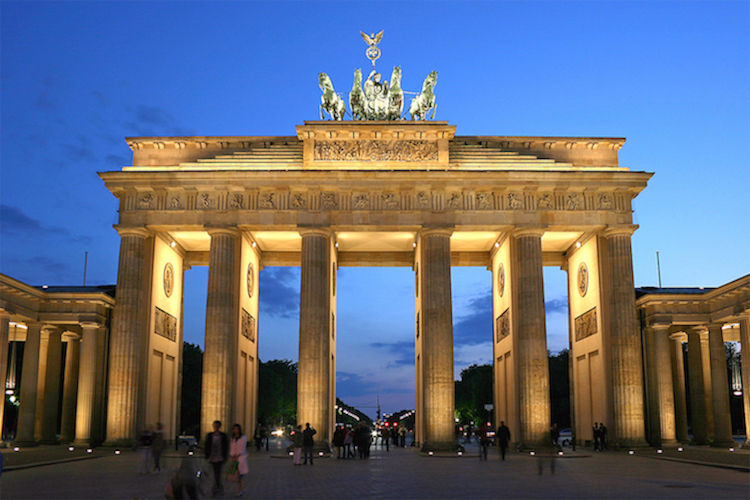
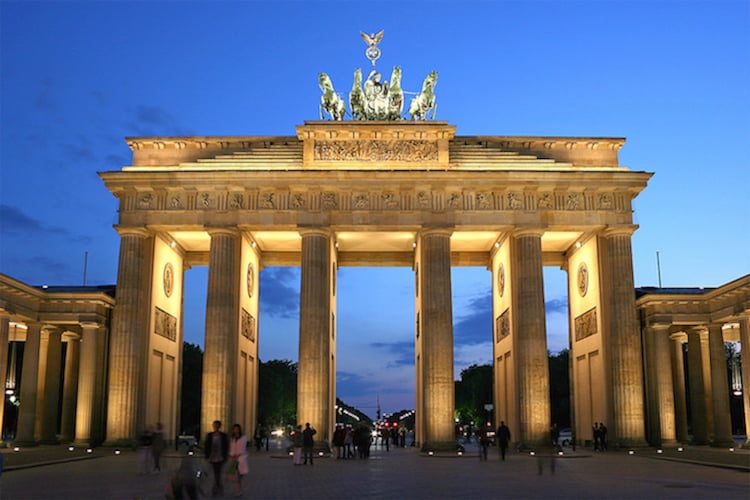
Update HTML&Image Optimize

diff --git a/css/main.css b/css/main.css
@@ -106,11 +106,11 @@ header {
       from(rgba(0, 0, 0, 0.7)),
       to(rgba(0, 0, 0, 0.7))
     ),
-    url("img/hero.jpg");
+    url("img/hero-min.jpg");
   background: -o-linear-gradient(rgba(0, 0, 0, 0.7), rgba(0, 0, 0, 0.7)),
-    url("img/hero.jpg");
+    url("img/hero-min.jpg");
   background: linear-gradient(rgba(0, 0, 0, 0.7), rgba(0, 0, 0, 0.7)),
-    url("img/hero.jpg");
+    url("img/hero-min.jpg");
   background-size: cover;
   background-position: center;
   background-attachment: fixed;
@@ -202,22 +202,6 @@ header .arrow.show {
   height: 8%;
   padding: 5px 10px;
 }
-@-webkit-keyframes fadeIn {
-  from {
-    opacity: 0;
-  }
-  to {
-    opacity: 1;
-  }
-}
-@keyframes fadeIn {
-  from {
-    opacity: 0;
-  }
-  to {
-    opacity: 1;
-  }
-}
 .active {
   height: 130px;
   -webkit-box-align: start;
@@ -279,6 +263,7 @@ header .arrow.show {
   display: -webkit-box;
   display: -ms-flexbox;
   display: flex;
+  animation: fadeIn 1.5s;
 }
 .detail__contents {
   width: 25%;
@@ -355,6 +340,7 @@ header .arrow.show {
   width: 40%;
   height: 100%;
   margin-right: 30px;
+  animation: bounceInLeft 1s;
 }
 .contents__steps {
   margin: 50px 30px 0px 30px;
@@ -393,6 +379,7 @@ header .arrow.show {
   display: -ms-flexbox;
   display: flex;
   margin: 40px 10px;
+  animation: zoomIn 1s;
 }
 .cities__list li {
   margin-right: 15px;
@@ -423,11 +410,11 @@ header .arrow.show {
       from(rgba(0, 0, 0, 0.75)),
       to(rgba(0, 0, 0, 0.75))
     ),
-    url("img/back-customers.jpg");
+    url("img/back-customers-min.jpg");
   background: -o-linear-gradient(rgba(0, 0, 0, 0.75), rgba(0, 0, 0, 0.75)),
-    url("img/back-customers.jpg");
+    url("img/back-customers-min.jpg");
   background: linear-gradient(rgba(0, 0, 0, 0.75), rgba(0, 0, 0, 0.75)),
-    url("img/back-customers.jpg");
+    url("img/back-customers-min.jpg");
   background-size: cover;
   background-attachment: fixed;
   color: #fff;
@@ -592,4 +579,121 @@ footer {
 }
 .footer-nav ul li a i:hover {
   color: #e67e22;
+}
+
+/* ANIMATIONS */
+@-webkit-keyframes fadeIn {
+  from {
+    opacity: 0;
+  }
+  to {
+    opacity: 1;
+  }
+}
+@keyframes fadeIn {
+  from {
+    opacity: 0;
+  }
+  to {
+    opacity: 1;
+  }
+}
+
+@-webkit-keyframes bounceInLeft {
+  from,
+  60%,
+  75%,
+  90%,
+  to {
+    -webkit-animation-timing-function: cubic-bezier(0.215, 0.61, 0.355, 1);
+    animation-timing-function: cubic-bezier(0.215, 0.61, 0.355, 1);
+  }
+
+  0% {
+    opacity: 0;
+    -webkit-transform: translate3d(-3000px, 0, 0);
+    transform: translate3d(-3000px, 0, 0);
+  }
+
+  60% {
+    opacity: 1;
+    -webkit-transform: translate3d(25px, 0, 0);
+    transform: translate3d(25px, 0, 0);
+  }
+
+  75% {
+    -webkit-transform: translate3d(-10px, 0, 0);
+    transform: translate3d(-10px, 0, 0);
+  }
+
+  90% {
+    -webkit-transform: translate3d(5px, 0, 0);
+    transform: translate3d(5px, 0, 0);
+  }
+
+  to {
+    -webkit-transform: translate3d(0, 0, 0);
+    transform: translate3d(0, 0, 0);
+  }
+}
+
+@keyframes bounceInLeft {
+  from,
+  60%,
+  75%,
+  90%,
+  to {
+    -webkit-animation-timing-function: cubic-bezier(0.215, 0.61, 0.355, 1);
+    animation-timing-function: cubic-bezier(0.215, 0.61, 0.355, 1);
+  }
+
+  0% {
+    opacity: 0;
+    -webkit-transform: translate3d(-3000px, 0, 0);
+    transform: translate3d(-3000px, 0, 0);
+  }
+
+  60% {
+    opacity: 1;
+    -webkit-transform: translate3d(25px, 0, 0);
+    transform: translate3d(25px, 0, 0);
+  }
+
+  75% {
+    -webkit-transform: translate3d(-10px, 0, 0);
+    transform: translate3d(-10px, 0, 0);
+  }
+
+  90% {
+    -webkit-transform: translate3d(5px, 0, 0);
+    transform: translate3d(5px, 0, 0);
+  }
+
+  to {
+    -webkit-transform: translate3d(0, 0, 0);
+    transform: translate3d(0, 0, 0);
+  }
+}
+@-webkit-keyframes zoomIn {
+  from {
+    opacity: 0;
+    -webkit-transform: scale3d(0.3, 0.3, 0.3);
+    transform: scale3d(0.3, 0.3, 0.3);
+  }
+
+  50% {
+    opacity: 1;
+  }
+}
+
+@keyframes zoomIn {
+  from {
+    opacity: 0;
+    -webkit-transform: scale3d(0.3, 0.3, 0.3);
+    transform: scale3d(0.3, 0.3, 0.3);
+  }
+
+  50% {
+    opacity: 1;
+  }
 }

diff --git a/index.html b/index.html
@@ -99,7 +99,7 @@
             that, we're really good at it, we promise!
           </p>
         </div>
-        <div class="features__details detail">
+        <div class="features__details">
           <div class="detail__contents">
             <i class="fas fa-infinity"></i>
             <h3>Up to 365 days/year</h3>
@@ -198,9 +198,7 @@
     <!--SECTION-WORKS -->
     <section class="section--works" id="works">
       <div class="inner">
-        <div class="works__title">
-          <h2>How it works &mdash; simple as 1,2,3</h2>
-        </div>
+        <h2>How it works &mdash; simple as 1,2,3</h2>
         <div class="works__contents">
           <div class="contents__img">
             <img src="img/app-iPhone.png" alt="iPhone" class="phone" />
@@ -242,9 +240,9 @@
     <!--SECTION-CITIES -->
     <section class="section--cities" id="cities">
       <div class="inner">
-        <div class="cities__title">
-          <h2>we're currently in these cities</h2>
-        </div>
+        <h2>we're currently in these cities</h2>
+      </div>
+      <div class="inner">
         <ul class="cities__list">
           <li>
             <img src="img/lisbon-3.jpg" alt="Lisbon" />
@@ -316,9 +314,7 @@
     <!--SECTION-REVIEWS -->
     <section class="section--reviews">
       <div class="inner">
-        <div class="reviews__title">
-          <h2>Our customers can't live without us</h2>
-        </div>
+        <h2>Our customers can't live without us</h2>
         <div class="reviews__list">
           <div>
             <blockquote>

diff --git a/README.md b/README.md
@@ -10,3 +10,9 @@ URL: https://www.udemy.com/course/design-and-develop-a-killer-website-with-html5
 
 1. All sources used in this website are from the course written in above. <br>
 2. Make same website but different <code>CSS</code> and <code>JS</code> used <br>
+
+## Checklist
+
+- [x] HTML Validation
+- [x] CSS Validation
+- [ ] Cross Browsing
